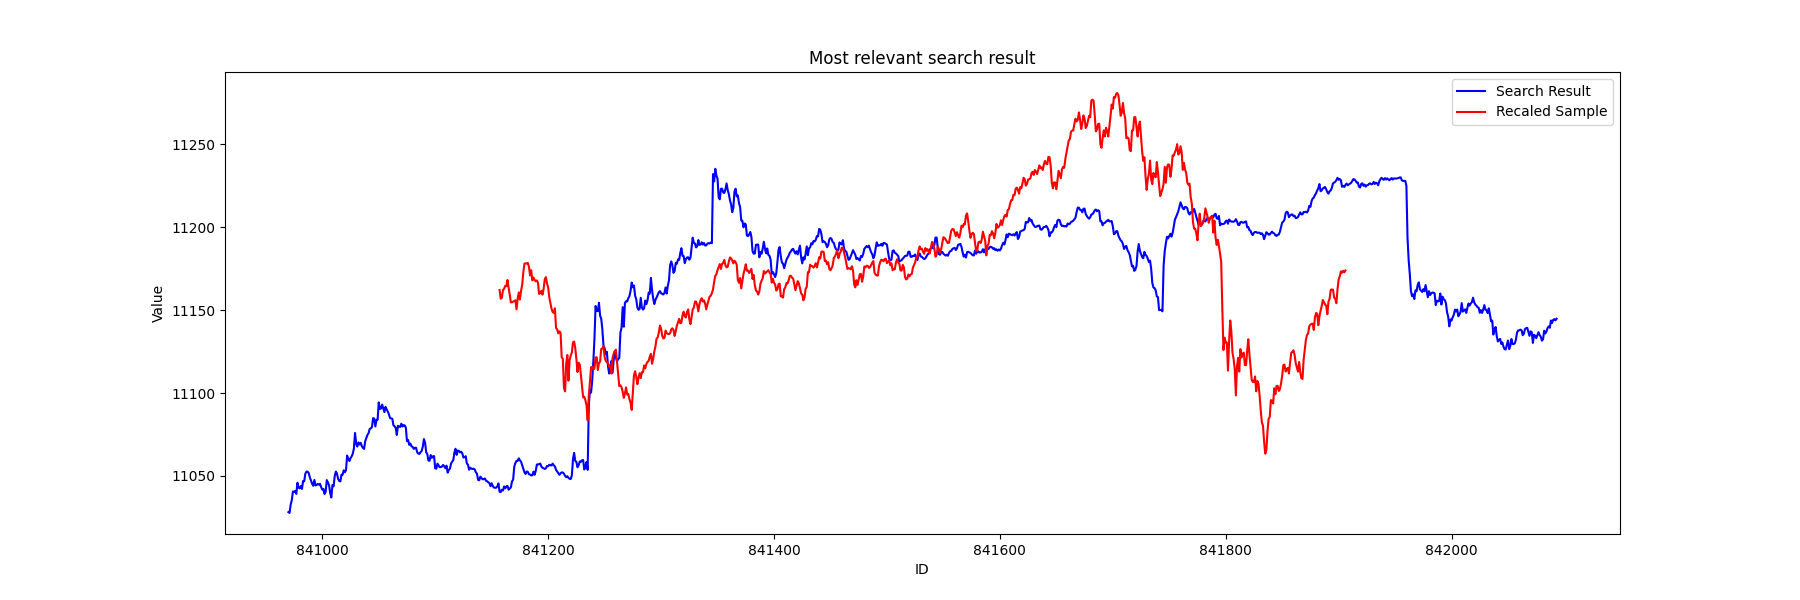
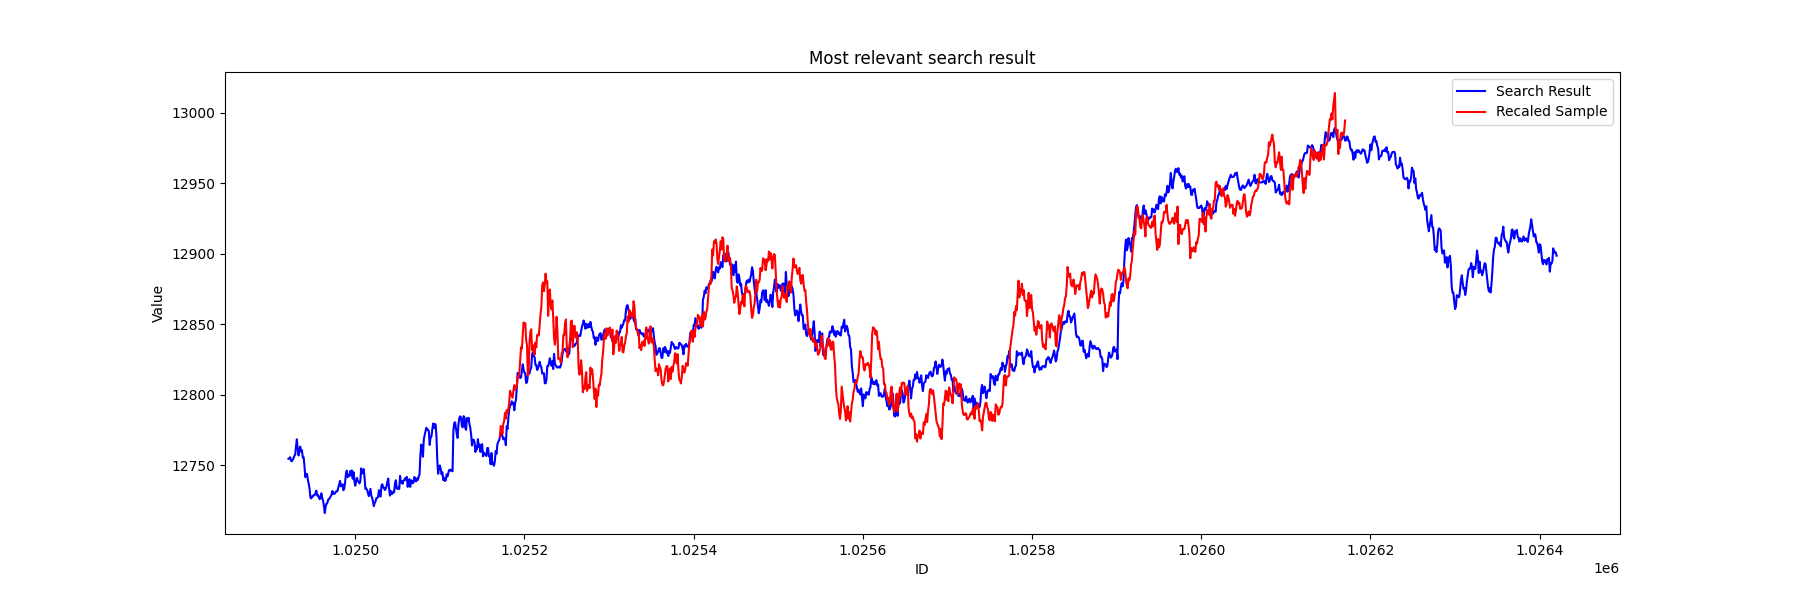
feat: savgol filter

diff --git a/regist_rhymes_pinecone.py b/regist_rhymes_pinecone.py
@@ -12,7 +12,7 @@ import pinecone
 import uuid
 
 from src.parallel import chunks
-from src.rhyme import difference_process
+from src.rhyme import difference_process, savgol_normalize
 
 dotenv.load_dotenv()
 
@@ -31,21 +31,33 @@ try:
     pinecone.delete_index(PINECONE_INDEX_NAME)
 except Exception as e:
     print(e)
-pinecone.create_index(PINECONE_INDEX_NAME, dimension=999, metric='euclidean')
+pinecone.create_index(PINECONE_INDEX_NAME, dimension=1000, metric='cosine')
 pinecone.describe_index(PINECONE_INDEX_NAME)
 
 print("Collection created")
 
 index = pinecone.Index(PINECONE_INDEX_NAME)
-index.upsert
 #####################################################################################################################
 # Functions
 #####################################################################################################################
+# def upsert_vectors_rhymes(index, df, batch_size=100, window=1000, divide=16, sigma=8):
+#     step = int(window // divide)
+#     data_generator = map(lambda i: {
+#         'id': str(uuid.uuid4()),
+#         'values': difference_process(df['VALUE'][i:i+window].tolist(), 1000, sigma=sigma),
+#         'metadata': {
+#             'ID': int(df['ID'][i]),
+#             'date': str(df['DATE'][i]),
+#             'time': str(df['TIME'][i]),
+#             'window': window
+#         }
+#     }, range(0, len(df['VALUE']) - window, step)) # len(df['VALUE'])
+
 def upsert_vectors_rhymes(index, df, batch_size=100, window=1000, divide=16, sigma=8):
     step = int(window // divide)
     data_generator = map(lambda i: {
         'id': str(uuid.uuid4()),
-        'values': difference_process(df['VALUE'][i:i+window].tolist(), 1000, sigma=sigma),
+        'values': savgol_normalize(df['VALUE'][i:i+window].tolist(), 1000),
         'metadata': {
             'ID': int(df['ID'][i]),
             'date': str(df['DATE'][i]),

diff --git a/interface_pinecone.py b/interface_pinecone.py
@@ -12,7 +12,7 @@ import os
 import dotenv
 import pinecone
 
-from src.rhyme import difference_process
+from src.rhyme import difference_process, savgol_normalize
 from src.search import detail_search
 from src.utils import clean_list, resample_non_drop, resample_normalize
 
@@ -383,7 +383,7 @@ def plot_from_xlsx_rhymes(file_path):
     sample_value = sample_df[sample_df.columns[1]].tolist()
 
     clean_list(sample_value)
-    difference_list = difference_process(sample_value, window=1000, sigma=8)
+    difference_list = savgol_normalize(sample_value, window=1000)
 
     results = index.query(
         vector=difference_list, top_k=TOP_K, include_metadata=True
@@ -429,10 +429,10 @@ def plot_from_xlsx_rhymes_80(file_path):
     sample_value = sample_df[sample_df.columns[1]].tolist()
 
     clean_list(sample_value)
-    difference_list = difference_process(sample_value, window=1250, sigma=8)
+    difference_list = savgol_normalize(sample_value, window=1250)
 
     results = index.query(
-        vector=difference_list[:999], top_k=TOP_K, include_metadata=True
+        vector=difference_list[:1000], top_k=TOP_K, include_metadata=True
     )
     
     text0, path0 = process_rhymes_80(

diff --git a/src/rhyme.py b/src/rhyme.py
@@ -1,5 +1,6 @@
 import numpy as np
 from scipy.ndimage import gaussian_filter1d
+from scipy.signal import savgol_filter
 
 from src.utils import resample_non_drop
   
@@ -9,3 +10,7 @@ def get_differences(x, sigma=8):
 
 def difference_process(x, window=1000, sigma=8):
     return get_differences(resample_non_drop(x, window), sigma)
+
+def savgol_normalize(x, window=1000):
+    filtered_data = savgol_filter(resample_non_drop(x, window), window_length=20, polyorder=3)
+    return (filtered_data - np.mean(filtered_data)).tolist()
